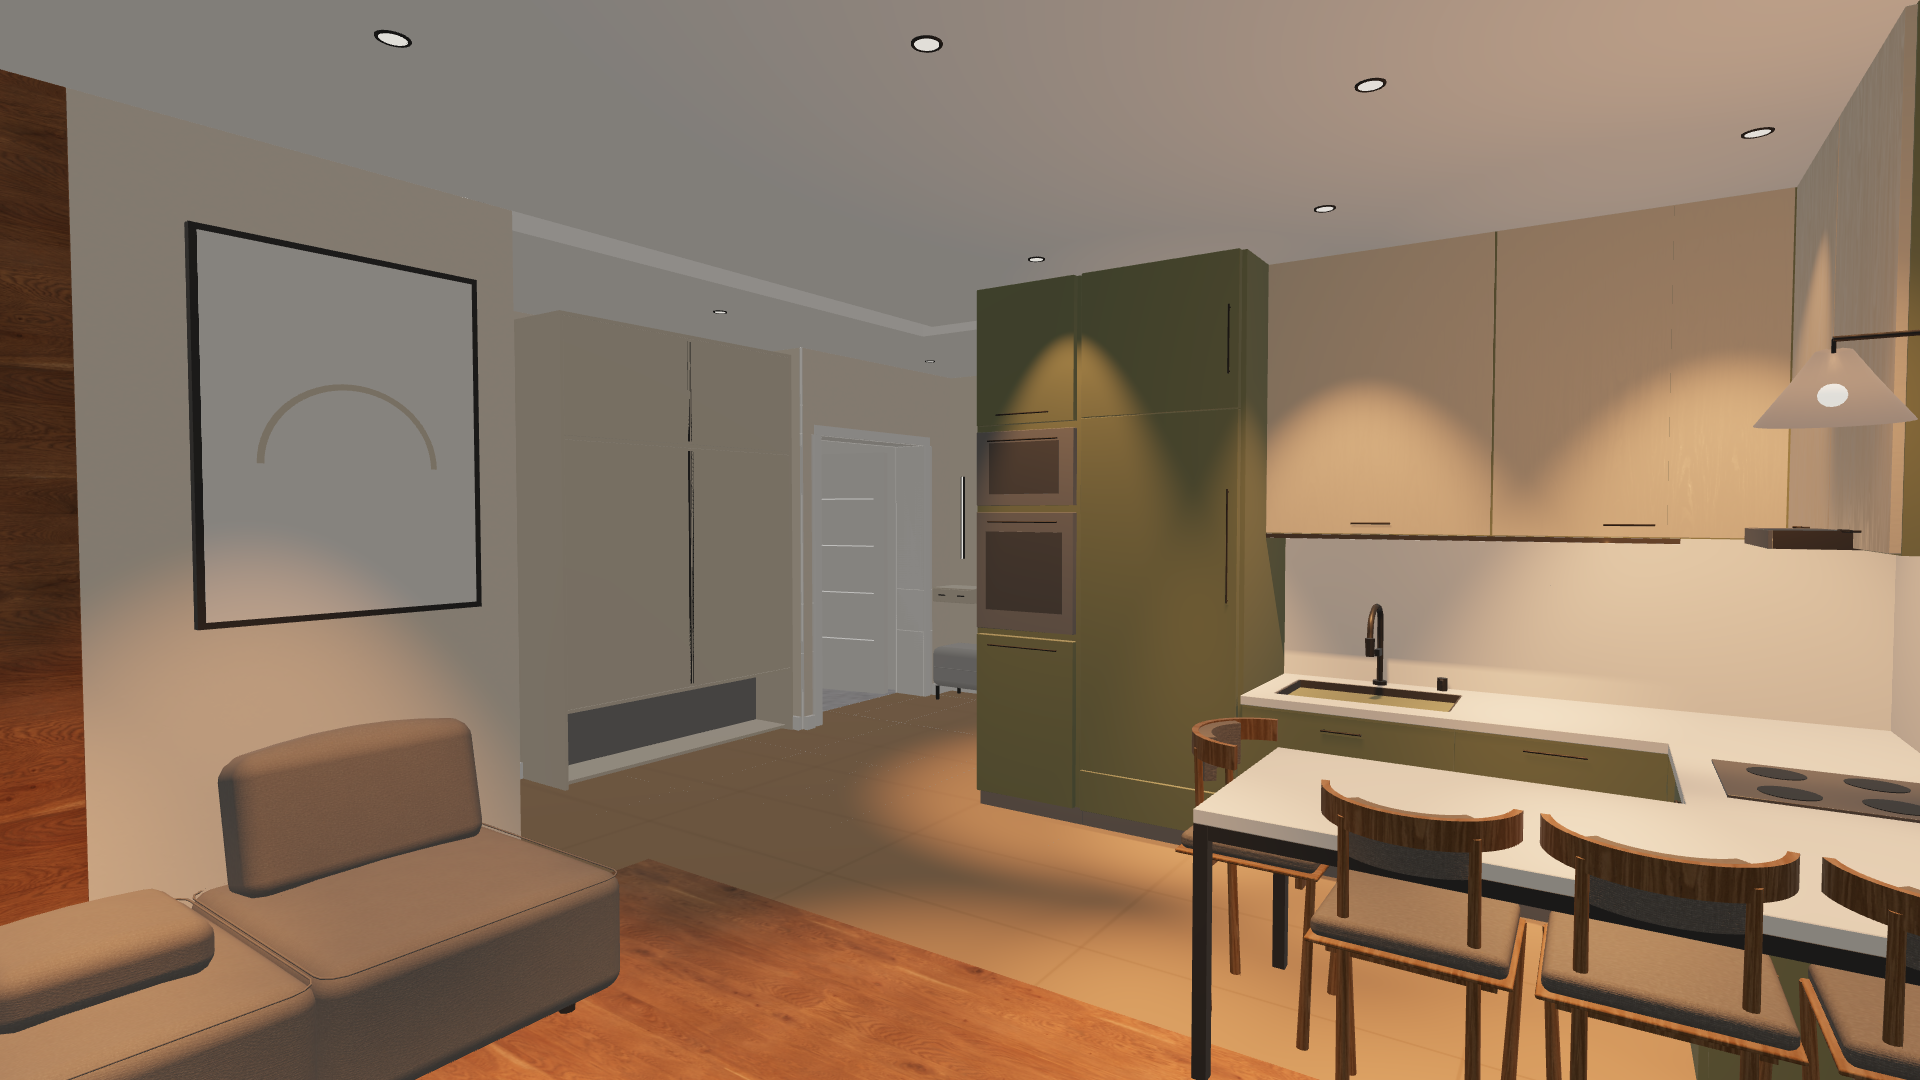
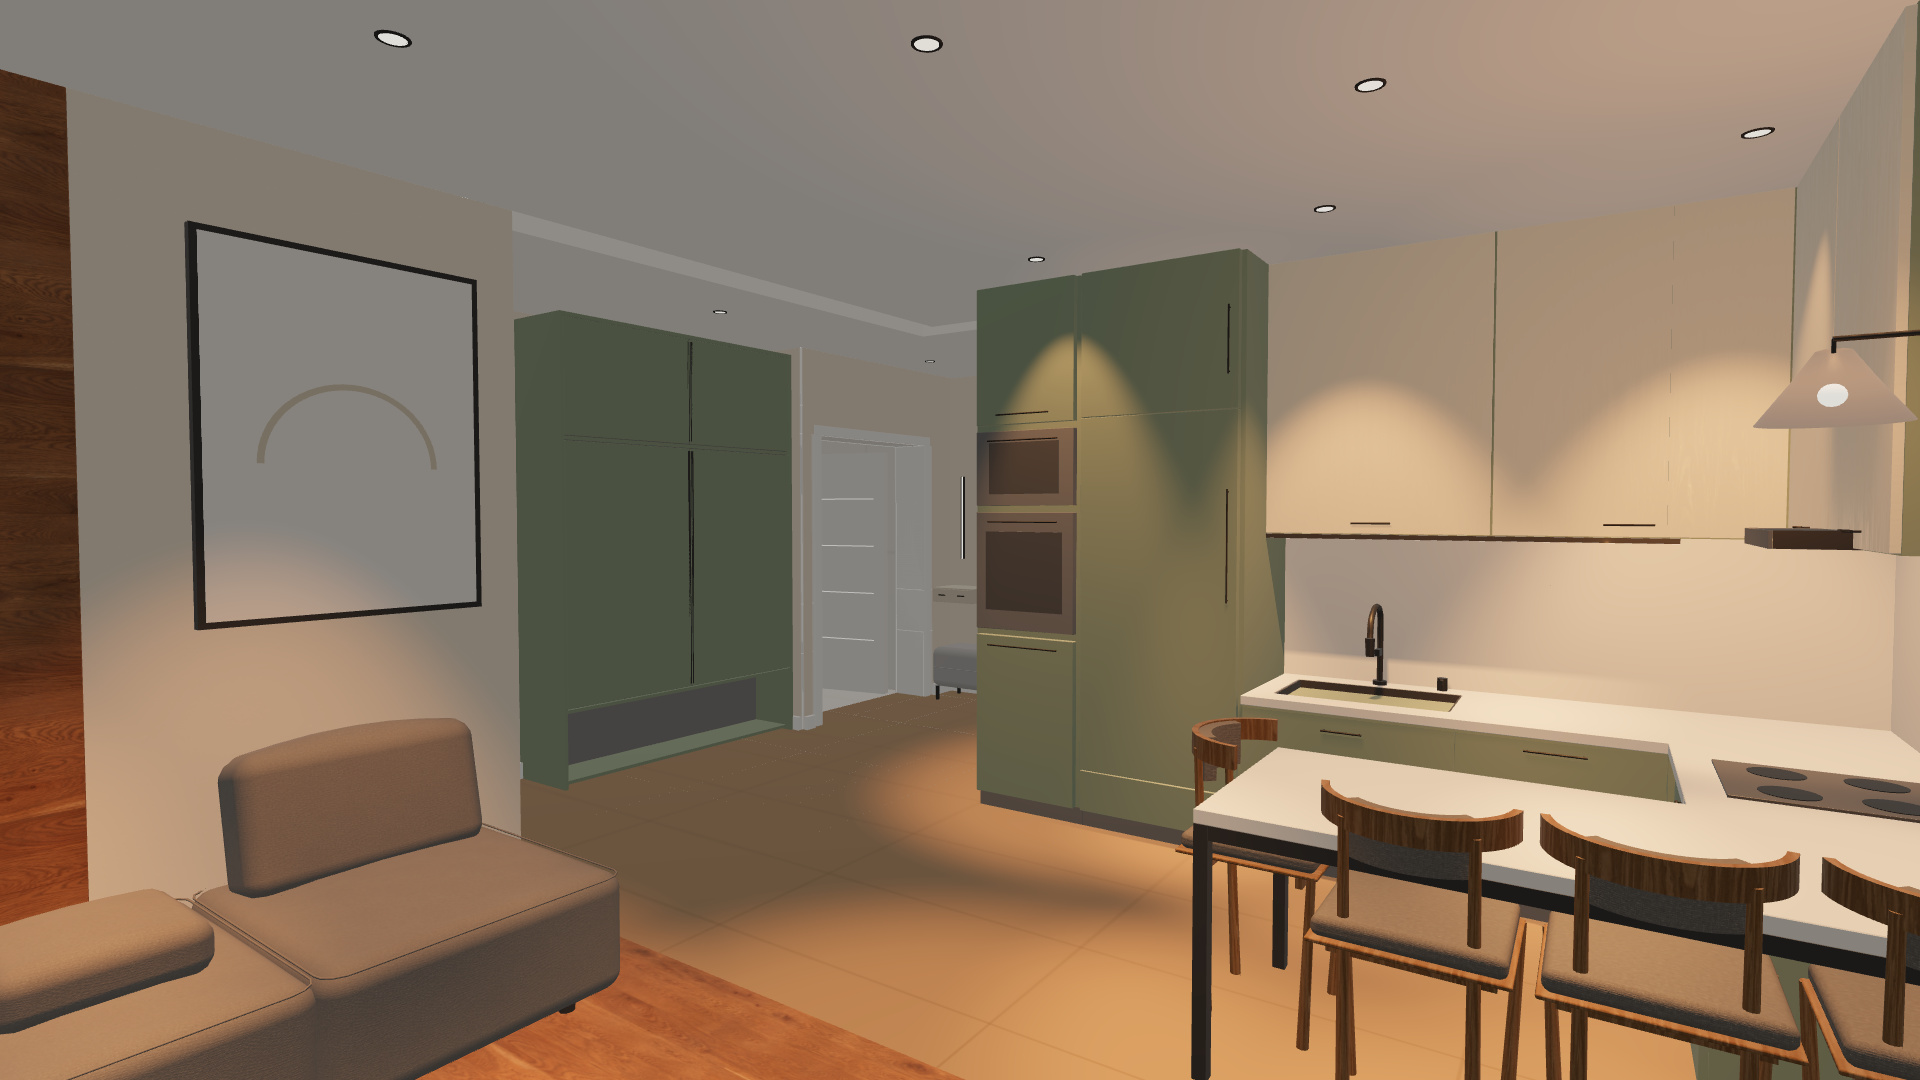
render: --set accepts any select id; sage/cream kitchen shots 4.1, 4.7 (film) and hall 5.1
Claude-Session: https://claude.ai/code/session_01CPQkR7FUqKBwL1r85pmB6T

diff --git a/tools/render.js b/tools/render.js
@@ -2,7 +2,7 @@
 //
 //   node tools/render.js --list | <ракурс> [--frame-only] [--reuse-frame] [--note "..."]
 //   node tools/render.js <ракурс> --fix "<что должно быть>"    # правка предыдущего результата, до трёх на кадр
-//   node tools/render.js <ракурс> --set sofa=G,table=none --ref r4-door --as dining-1
+//   node tools/render.js <ракурс> --set sofa=G,k4kbase=sage,h5tile=B --ref r4-door --as dining-1   # any select by id; bare key = room 4
 //   node tools/render.js <ракурс> --wide                        # исходная камера пресета, широкий угол под потолком
 //   node tools/render.js <ракурс> --film                        # пасмурный свет, зерно и несовершенства съёмки (раздел «## film» в STYLE.md)
 //
@@ -25,7 +25,7 @@ const SIZE = flag('size', '2K');                                                
 const [W, H] = flag('viewport', '1920x1080').split('x').map(Number);
 const ASPECT = flag('aspect', '16:9');
 const MAX_FIXES = 3;
-const SET = flag('set', '');   // варианты комнаты 4 в кадре: table=none,sofa=G,kitchen=B…
+const SET = flag('set', '');   // селекты в кадре: table=none,sofa=G (комната 4) или полный id — k4kbase=sage,h5tile=B
 const REF = flag('ref', '');   // готовый рендер другого ракурса — эталон материалов и палитры
 const AS = flag('as', '');   // имя варианта: без него результат зовётся именем ракурса
 const LABELS = has('labels');
@@ -53,7 +53,7 @@ const img = p => ({ type: 'image', mime_type: p.endsWith('.png') ? 'image/png' :
   if (!cams.some(c => c.id === cam)) { console.error('нет такого ракурса: ' + cam + ' (--list покажет все)'); await browser.close(); process.exit(1); }
 
   // чистый кадр: материалы и светильники включены, аватар и весь оверлей убраны, снимается только канвас
-  if (SET) await page.evaluate(pairs => pairs.forEach(([k, v]) => ROOM4.pick(k, v)), SET.split(',').map(p => p.split('=')));
+  if (SET) await page.evaluate(pairs => pairs.forEach(([k, v]) => { const sel = document.getElementById(k) || document.getElementById('k4' + k); if (!sel) throw new Error('нет селекта ' + k); sel.value = v; sel.dispatchEvent(new Event('change')); }), SET.split(',').map(p => p.split('=')));   // any select by id (h5tile, k4kbase…); a bare key is room 4
   await page.evaluate(id => { VIZ.set(true); LIGHTING.set('lamps'); const a = document.getElementById('avatarOn'); a.checked = false; a.dispatchEvent(new Event('change')); setView(id);
     document.getElementById('ui').style.display = 'none'; document.querySelectorAll('.hint, .rl, #walkpad, #fpvhint, #camhint, #map').forEach(e => { e.style.display = 'none'; }); }, cam);
   if (PHOTO) await page.evaluate(() => { controls.pos.y = 1.55; controls.phi = Math.PI / 2 + 0.03; persp.fov = 60; persp.updateProjectionMatrix(); controls.apply(); });

diff --git a/render/STYLE.md b/render/STYLE.md
@@ -45,6 +45,9 @@ The same kitchen-living room seen from the middle of the living zone, at eye lev
 The same kitchen-living room seen from the north-east corner, at eye level, looking west-south-west across the room (camera 4.7). The sofa without armrests is in the left foreground, the walnut slat panel of the sofa wall closes the left edge of the frame and a framed picture hangs on the painted wall beside it. In the centre of the far wall is the doorway to the hall with a light door visible beyond it — a doorway, never a window. The kitchen takes the right half of the frame: the appliance and fridge columns, the wall units over the sink run, the worktop with its sink and mixer, and the dining table with its chairs in the right foreground. Same finishes as the other shots of this room: same cabinet colour, same tile, same oak floor, same slat walnut.
 Floor zoning: warm oak plank flooring fills the near half of the room, all the floor in front of the sofa, and meets large-format warm beige porcelain tile on one straight flush line across the room with no threshold strip; the tile covers the kitchen strip in front of the run and the whole hall floor beyond the doorway. The sofa is one low 2.3 × 1.5 m piece without armrests, not an armchair. The tall cabinet left of the hall doorway is 1.77 m wide with two doors of 0.87 m and two matching doors above them, and an open shoe niche underneath.
 
+## r5-entry
+Hall 12.3 m² (L-shaped, this leg 1.8 m wide, ceiling 2.7 m), seen at eye level from the corner by the entrance, looking down the narrow leg towards two white interior doors (camera 5.1). The two doors stand side by side on the far wall, plain flat white leaves with dark lever handles; the wall above them is painted greige. The left wall is closed by the tall frameless mirror, 0.90 m wide and 2.40 m high, its rounded rectangle reflecting the hall — a mirror, never a door or a picture. On the right, a strip of the hall wall in the same beige porcelain tile as the floor, then the visible side of the built-in wardrobe filling its niche to the ceiling; past the wardrobe the frame opens to the kitchen-living room with oak flooring, the TV wall and the white floating console. Floor: the same large-format beige porcelain tile as the kitchen zone, recessed spotlights and a thin LED line along the ceiling edge.
+
 ## film
 Photographic realism pass — the result must read as a photograph of this flat, not as an architectural render. Keep the geometry, the furniture, the layout and the materials exactly as described above; change only how the picture was shot and processed.
 

diff --git a/.claude/skills/render/SKILL.md b/.claude/skills/render/SKILL.md
@@ -20,7 +20,7 @@ node tools/render.js r4-arch                 # база
 node tools/render.js r4-arch --frame-only    # только кадр, без API и без денег
 node tools/render.js r4-arch --fix "..."     # правка
 node tools/render.js r4-arch --note "вечер, свет только от ламп"   # разовое дополнение к базе
-node tools/render.js r4-sw --set table=none,sofa=G,kitchen=B       # варианты комнаты 4 в кадре
+node tools/render.js r4-sw --set table=none,sofa=G,k4kbase=sage,h5tile=B   # любой селект по id; ключ без префикса — комната 4
 node tools/render.js r4-sw --ref r4-door                           # материалы как на готовом ракурсе
 node tools/render.js r4-sw --as bar-1 --note "..."                 # именованный вариант
 node tools/render.js r4-door --wide                                 # исходная камера пресета вместо высоты глаз
